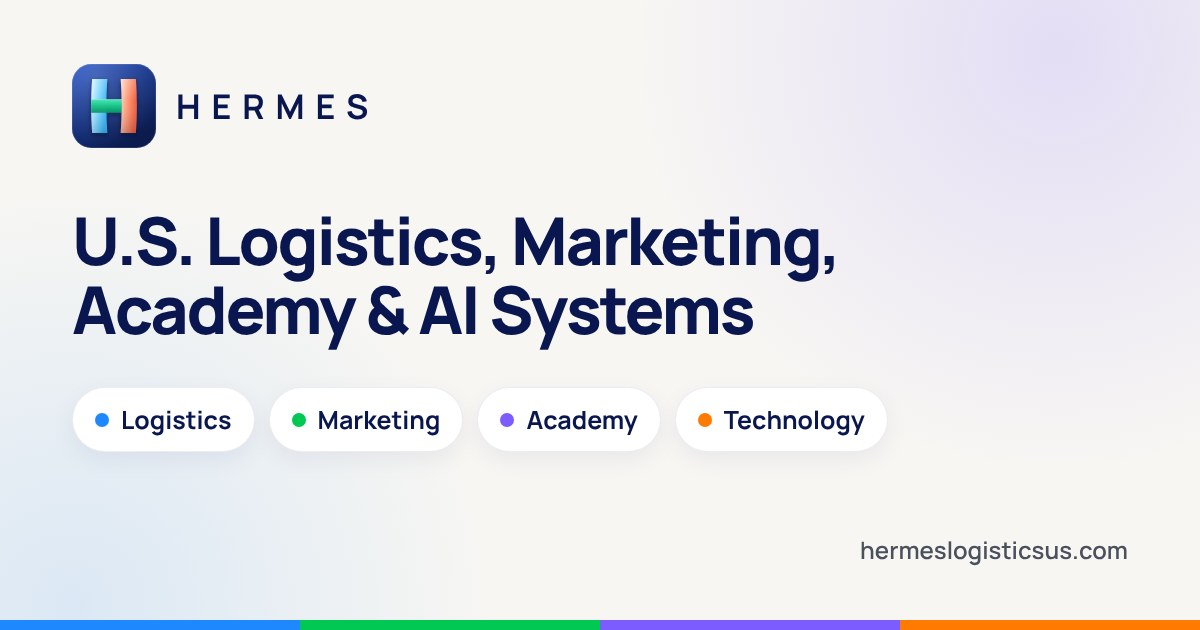
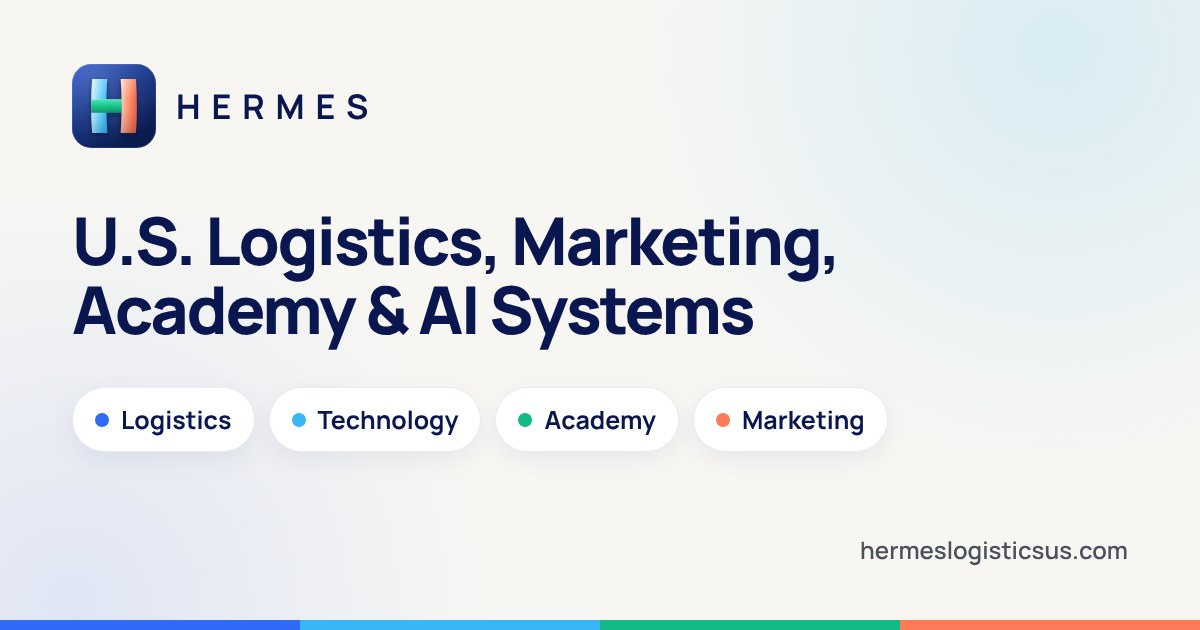
design: gap analysis vs Claude Design; social card on H-mark palette; contacts spacing
- docs/design/DESIGN_GAP_ANALYSIS_2026-10-23.md: two live direction palettes, display
  typography/button/eyebrow/media deltas, hero and sub-nav consistency, product accent
  colours for the brand book, phased plan
- Social preview card redrawn in the approved H-mark direction palette and menu order
- /contacts/: restore the space before the Work With Hermes link

Claude-Session: https://claude.ai/code/session_01Jsuu2E2HDEDDPtZwXCWT5m

diff --git a/docs/design/DESIGN_GAP_ANALYSIS_2026-10-23.md b/docs/design/DESIGN_GAP_ANALYSIS_2026-10-23.md
@@ -1,0 +1,110 @@
+# Design gap analysis — Claude Design (approved) vs the rest of the site
+
+Date: 2026-10-23 · Author: Claude Code · Evidence: live screenshots at 1440px of `/`,
+`/paths/logistics/`, `/paths/academy/` (approved Claude Design) against `/logistics/car-hauling-dispatch/`,
+`/products/`, `/insights/`, `/load-board/`, `/contacts/`, `/services/hermes-connect/`, `/businesses/`,
+plus computed styles and a colour inventory of `src/` and `public/*.css`.
+
+Owner instruction: analysis first, no wholesale redesign. Items marked **Fixed** were small and done
+in this pass; everything else is a proposal.
+
+## 1. Two direction palettes are live at the same time (main finding)
+
+| Direction | Brand System V4 doc + most pages (`--hermes-*`) | Claude Design / H mark v1.1 (`--dir-*`) |
+|---|---|---|
+| Logistics | `#1E88FF` blue | `#2F6BF6` blue (tile of the mark) |
+| Technology | `#FF7A00` orange | `#38B6F5` sky (left upright) |
+| Academy | `#7C5CFF` violet | `#12B886` green (crossbar) |
+| Marketing | `#00C853` green | `#FF7A59` coral (right upright) |
+
+- `src/styles/hermes-direction-colors.css` says "single source — change here only" and carries the
+  Claude Design palette, but only Home, the four direction pages and the approved header use it.
+- `docs/design/HERMES_UNIFIED_BRAND_SYSTEM.md` §2 still lists the V4 palette. Every other page, the
+  Hermes Connect product header and many components use it. Occurrences in source: V4 colours ≈130,
+  Claude Design colours ≈17.
+- Effect: Academy is green in the main menu and violet inside Connect. Technology is sky in the menu
+  and orange in Connect's "IT" item. Marketing is coral in the menu and green elsewhere.
+- My earlier site-wide colour clean-up (magenta → violet `#6446e6`) aligned the inner pages to the
+  **V4** violet, so it widened rather than closed this gap.
+- **Fixed:** the new social preview card now uses the Claude Design palette and menu order.
+
+**Proposal (phase 1):** update Brand System §2 to the H mark palette. Then point `--hermes-logistics/
+-technology/-academy/-marketing` at `var(--dir-*)` so ~130 usages follow automatically. Keep
+`--hermes-violet` as the Hermes Intelligence / product accent, not as the Academy colour.
+
+## 2. Typography: approved display style is missing on inner pages
+
+| | Approved (Home, directions) | Inner pages (commercial, contacts, catalog) |
+|---|---|---|
+| H1 tracking | −0.05em (≈ −3.8px at 76px) | normal (0) |
+| H1 colour | ink `#111318` on pearl | white on navy, or `#111324` |
+| Eyebrow | mono, letter-spaced, **4px direction bar** before it | mono, violet text, no bar |
+| Primary button | ink pill (999px radius) | 4px-radius rectangle |
+| Media | 32px-radius "live window" card with caption | square-cornered photo |
+
+The tight display tracking and the pill buttons are most of why the approved pages "look more
+aesthetic". The token already exists (`--hermes-display-tracking: -0.05em`), but most templates don't use it.
+
+**Proposal (phase 2):** apply to the shared templates (`LogisticsCommercialPage`, `DigitalServicePage`,
+`ResourcePage`, contacts, catalog, insights hero):
+1. display tracking on h1/h2;
+2. pill primary buttons;
+3. direction-bar eyebrows;
+4. rounded live-window media.
+
+This is template-level work (~6 components), not 400 pages.
+
+## 3. Hero surfaces
+
+- **Approved:** light pearl `#F7F6F3` hero, photo in a live window, a calm amount of copy.
+- **Commercial pages** (`/logistics/car-hauling-dispatch/` and its siblings):
+  - full navy `#071038` hero;
+  - a 6-line h1 and a 7-line lead paragraph above the fold;
+  - the breadcrumb wraps under the header.
+- **Proposal:** move commercial heroes to the pearl + live-window pattern and cap the lead at ~3 lines.
+  The remaining copy moves into the body, so SEO text is kept.
+
+## 4. Sub-navigation consistency
+
+- **Directions:** the submenu is attached under the header pill (approved).
+- **Catalog:** full-width detached bar with a different left block.
+- **Load Board and Connect:** a second "product family" panel with its own title row, search and
+  language, plus an old-palette nav ("IT" orange, Academy violet, Marketing green) and a plain "H Hermes" wordmark.
+- **Proposal:**
+  - Catalog adopts the attached direction submenu.
+  - Connect/Load Board keep their product header (contract), but take the H mark palette for the four
+    direction stripes and use the label "Technology" instead of "IT".
+
+## 5. Colours worth adding to the brand book (per product)
+
+These are already in use and look good; formalise them as product accents (not direction colours):
+
+| Product | Colour | Where seen | Suggested token |
+|---|---|---|---|
+| Hermes Connect | deep teal field `#0B3B3A → #071C22` with Intelligence gradient `#7C5CFF → #5AC8FA` | Connect hub hero, "with AI." | `--product-connect-field`, `--hermes-intelligence-gradient` (exists) |
+| Load Board | mint `#67E8C5` on night `#0B1018` | Load Board CTAs and eyebrows | `--product-loadboard-accent` |
+| Insights | indigo `#071034 → #1D2357` with violet glow `rgba(100,76,213,.28)` | Insights hero | `--product-insights-field` |
+| Hermes Connect mark | loop gradient `#5AC8FA → #2563EB → #7C5CFF` | Connect mark everywhere | `--product-connect-mark` |
+| Catalog | teal bar `#22A39F` | Catalog submenu | `--product-catalog-accent` (exists as `--nav-catalog`) |
+
+Rule to keep: product accents live inside their product surfaces. Directions use the H mark palette.
+Semantic states (success/warning/danger) stay separate.
+
+## 6. Smaller defects found
+
+- **Fixed:** `/contacts/` rendered "start withWork With Hermes". Astro HTML compression dropped the
+  line-break space before a link. This was the only occurrence site-wide.
+- `/logistics/car-hauling-dispatch/` "Who this is for": check icons are inconsistent in size and
+  alignment (one is faint).
+- `--hermes-ink` is defined twice: `#0B0D12` (brand system) and `#0A164F` (direction colours). Pick
+  one, recommended `#0A164F` action ink for buttons and `#0B0D12` for text, and rename accordingly.
+
+## 7. Suggested order
+
+1. **Palette unification (phase 1):** one token change plus a Brand System doc update. Highest visual consistency per line of code.
+2. **Shared template typography, buttons, eyebrows and media (phase 2).**
+3. **Commercial hero pattern (phase 3)** on the highest-traffic SEO pages first: car-hauling dispatch, owner-operator, new authority, start-trucking-company.
+4. **Sub-navigation alignment (phase 4):** Catalog, plus the Connect stripes and label.
+5. **Brand book additions** for the product accents (§5).
+
+Each phase is one PR with screenshots before and after at 390 / 1024 / 1440px and the existing contract tests.
